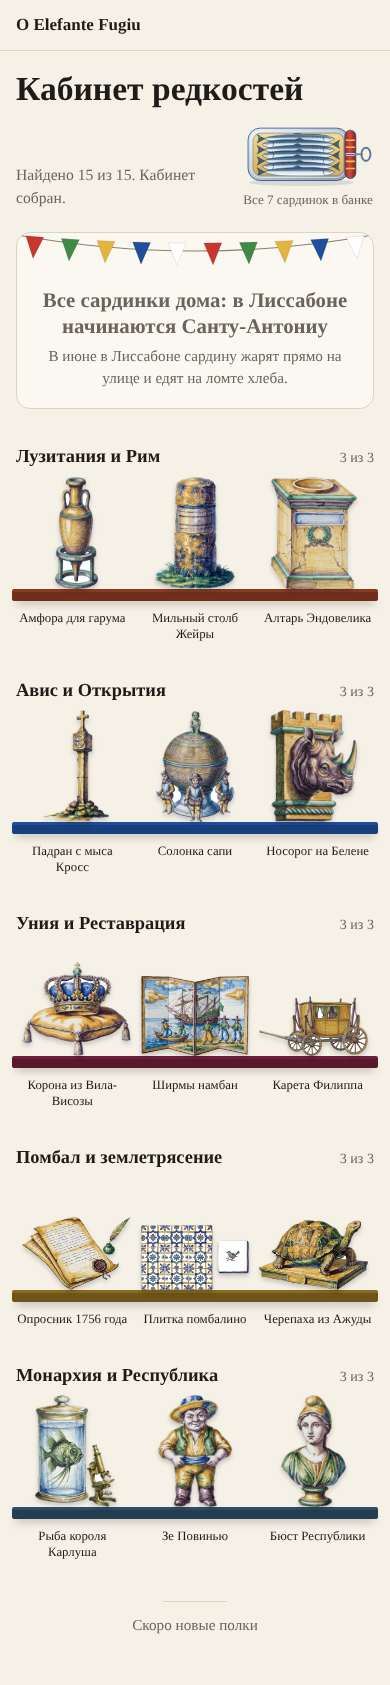
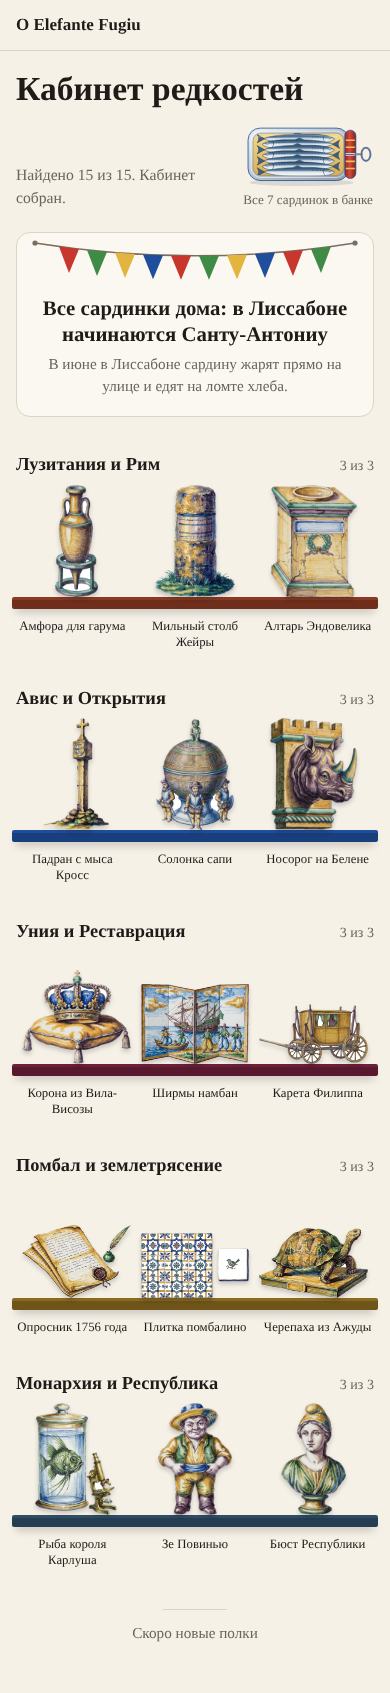
Cabinet: bunting as in mockup v4, found line beside the tin and lead under the head, shelf pictures step in qa workflows

diff --git a/docs/drafts/cabinet-mockup-v4/index.html b/docs/drafts/cabinet-mockup-v4/index.html
@@ -17,9 +17,9 @@ h1{font-family:var(--display);font-size:2.1rem;line-height:1.1;margin:0;grid-col
 .tin{display:flex;flex-direction:column;align-items:center;gap:2px;background:none;border:0;padding:0;font:inherit;color:var(--muted);font-size:.82rem}
 .tin svg{width:132px;height:auto}
 /* festa */
-.festa{position:relative;margin:22px 0 6px;padding:54px 18px 18px;border-radius:14px;background:var(--paper);border:1px solid var(--line);text-align:center;overflow:hidden}
+.festa{position:relative;margin:22px 0 6px;padding:62px 18px 18px;border-radius:14px;background:var(--paper);border:1px solid var(--line);text-align:center;overflow:hidden}
 .festa svg{position:absolute;left:0;top:0;width:100%;height:64px}
-.festa .t{font-family:var(--display);font-size:1.3rem;line-height:1.25;margin:0 0 6px;font-weight:700}
+.festa .t{margin-top:4px;color:var(--fg);font-family:var(--display);font-size:1.3rem;line-height:1.25;margin:0 auto 6px;font-weight:700}
 .festa p{margin:0 auto;color:var(--muted);font-size:.95rem;max-width:40ch}
 /* shelves */
 .shelf{margin-top:34px}
@@ -123,14 +123,18 @@ document.getElementById('shelves').innerHTML=h;
 document.getElementById('sum').textContent=DONE?'Найдено 15 из 15. Кабинет собран.':'Найдено '+n+' из 15. Редкости спрятаны в текстах историй.';
 drawTin(DONE?7:3);
 if(DONE){
- const cols=['#C8372D','#3F8A45','#E3B53F','#1F4E9C','#FFFFFF'];
- function bunting(W,H,y0,sag,cnt,off){let s='<path d="M0 '+y0+' Q'+W/2+' '+(y0+2*sag)+' '+W+' '+y0+'" fill="none" stroke="#8A7F70" stroke-width="1.2"/>';
-  for(let i=0;i<cnt;i++){const t=(i+.5+off)/cnt;if(t>1)continue;const x=W*t;const y=y0+2*sag*t*(1-t);const dy=2*sag*(1-2*t)/W;const a=Math.atan(dy)*180/Math.PI;
-   const c=cols[(i+(off?2:0))%cols.length];s+='<g transform="translate('+x+' '+y+') rotate('+a+')"><path d="M-9 0 H9 L0 22 Z" fill="'+c+'" stroke="rgba(0,0,0,.15)" stroke-width=".6"/></g>';}
+ const cols=['#C8372D','#3F8A45','#E3B53F','#1F4E9C'];
+ function bunting(W,H){const x0=18,x1=W-18,y0=10,L=x1-x0,sag=Math.min(24,L*0.04);
+  const Y=x=>{const t=(x-x0)/L;return y0+4*sag*t*(1-t);};
+  const fw=20,gap=8,fh=24,n=Math.floor((L-24+gap)/(fw+gap)),start=x0+(L-(n*fw+(n-1)*gap))/2;
+  let s='<path d="M'+x0+' '+y0+' Q'+(x0+L/2)+' '+(y0+2*sag)+' '+x1+' '+y0+'" fill="none" stroke="#7A6E60" stroke-width="1.4"/>';
+  s+='<circle cx="'+x0+'" cy="'+y0+'" r="2.6" fill="#7A6E60"/><circle cx="'+x1+'" cy="'+y0+'" r="2.6" fill="#7A6E60"/>';
+  for(let i=0;i<n;i++){const xl=start+i*(fw+gap),xr=xl+fw,xm=xl+fw/2,yl=Y(xl),yr=Y(xr);
+   s+='<path d="M'+xl.toFixed(1)+' '+yl.toFixed(1)+' L'+xr.toFixed(1)+' '+yr.toFixed(1)+' L'+xm.toFixed(1)+' '+(Math.max(yl,yr)+fh).toFixed(1)+' Z" fill="'+cols[i%cols.length]+'"/>';}
   return s;}
  document.getElementById('festa').innerHTML='<div class="festa"><svg></svg><p class="t">Все сардинки дома: в Лиссабоне начинаются Санту-Антониу</p><p>В июне в Лиссабоне сардину жарят прямо на улице и едят на ломте хлеба.</p></div>';
  const fe=document.querySelector('.festa'),sv=fe.querySelector('svg');const W=fe.clientWidth,Hh=sv.clientHeight;sv.setAttribute('viewBox','0 0 '+W+' '+Hh);
- sv.innerHTML=bunting(W,Hh,2,Math.min(16,Hh/4),Math.round(W/34),0);
+ sv.innerHTML=bunting(W,Hh);
 }
 if(P.has('pop')){const b=document.querySelector('[data-id="k06-rinoceronte"]');const r=b.getBoundingClientRect();const d=document.createElement('div');d.className='pop';d.style.top=(r.bottom+window.scrollY+40)+'px';d.style.left=Math.max(12,Math.min(r.left-150,innerWidth-302))+'px';d.innerHTML='<b>Носорог на Белене</b>Каменная голова носорога под башенкой: портрет того самого зверя, которого везли папе в 1515 году.<br><a href="#">Открыть историю →</a>';document.body.appendChild(d);}
 </script></body></html>

diff --git a/src/lib/cabinet-art.ts b/src/lib/cabinet-art.ts
@@ -56,24 +56,41 @@ export function tinSvg(caught: number, uid: string): string {
   );
 }
 
-/** The step of the flags on the cord, px. */
-export const BUNTING_STEP = 34;
+/** The cord is fixed at two points this far from the corners of the card, px. */
+const BUNTING_INSET = 18;
+const BUNTING_TOP = 10;
+const BUNTING_SAG = 24;
+const BUNTING_FLAG = { width: 20, height: 24, gap: 8 };
+/** Four colours, no white. */
+const BUNTING_COLOURS = [1, 2, 3, 4];
 
 /**
- * The bunting of the finished cabinet: the cord sags a little between the two edges of a block `width` px wide, and a flag hangs at every step, its point down, turned to the tangent of the cord.
- * Five colours (white with a thin outline). The width is the real width of the block, so nothing is stretched.
+ * The bunting of the finished cabinet (the same drawing as docs/drafts/cabinet-mockup-v4): the cord hangs from two points 18 px inside the corners of a card `width` px wide and sags about 24 px;
+ * flags 20 x 24 with an 8 px gap, the top corners of every flag lie on the cord, the point is straight down. The width is the real width of the card, so nothing is stretched.
  */
-export function buntingSvg(width: number, height: number): string {
-  const y0 = 2;
-  const sag = Math.min(16, height / 4);
-  const count = Math.max(1, Math.round(width / BUNTING_STEP));
-  let flags = '';
+export function buntingSvg(width: number): string {
+  const x0 = BUNTING_INSET;
+  const x1 = width - BUNTING_INSET;
+  const y0 = BUNTING_TOP;
+  const length = x1 - x0;
+  const sag = Math.min(BUNTING_SAG, length * 0.04);
+  const cordY = (x: number): number => {
+    const t = (x - x0) / length;
+    return y0 + 4 * sag * t * (1 - t);
+  };
+  const { width: fw, height: fh, gap } = BUNTING_FLAG;
+  const count = Math.max(0, Math.floor((length - 24 + gap) / (fw + gap)));
+  const start = x0 + (length - (count * fw + (count - 1) * gap)) / 2;
+  const f = (n: number): string => n.toFixed(1);
+  let out = `<path d="M${x0} ${y0} Q${f(x0 + length / 2)} ${f(y0 + 2 * sag)} ${f(x1)} ${y0}" fill="none" stroke="var(--color-muted)" stroke-width="1.4"/>`;
+  out += `<circle cx="${x0}" cy="${y0}" r="2.6" fill="var(--color-muted)"/><circle cx="${f(x1)}" cy="${y0}" r="2.6" fill="var(--color-muted)"/>`;
   for (let i = 0; i < count; i++) {
-    const t = (i + 0.5) / count;
-    const x = width * t;
-    const y = y0 + 2 * sag * t * (1 - t);
-    const angle = (Math.atan((2 * sag * (1 - 2 * t)) / width) * 180) / Math.PI;
-    flags += `<g transform="translate(${x.toFixed(1)} ${y.toFixed(1)}) rotate(${angle.toFixed(1)})"><path d="M-9 0 H9 L0 22 Z" fill="var(--cab-flag-${(i % 5) + 1})" stroke="var(--cab-flag-line)" stroke-width=".6"/></g>`;
+    const xl = start + i * (fw + gap);
+    const xr = xl + fw;
+    const yl = cordY(xl);
+    const yr = cordY(xr);
+    const colour = BUNTING_COLOURS[i % BUNTING_COLOURS.length];
+    out += `<path d="M${f(xl)} ${f(yl)} L${f(xr)} ${f(yr)} L${f(xl + fw / 2)} ${f(Math.max(yl, yr) + fh)} Z" fill="var(--cab-flag-${colour})"/>`;
   }
-  return `<path d="M0 ${y0} Q${(width / 2).toFixed(1)} ${y0 + 2 * sag} ${width.toFixed(1)} ${y0}" fill="none" stroke="var(--color-muted)" stroke-width="1.2"/>${flags}`;
+  return out;
 }

diff --git a/src/styles/tokens.css b/src/styles/tokens.css
@@ -48,11 +48,9 @@
   --cab-fish-fin: light-dark(#3e5f80, #4a6d90);
   --cab-fish-eye: light-dark(#ffffff, #ffffff);
   --cab-flag-1: light-dark(#c8372d, #d9564b);
-  --cab-flag-2: light-dark(#4e8f45, #6aaa5f);
-  --cab-flag-3: light-dark(#e9c46a, #e0b24a);
+  --cab-flag-2: light-dark(#3f8a45, #6aaa5f);
+  --cab-flag-3: light-dark(#e3b53f, #e0b24a);
   --cab-flag-4: light-dark(#1f4e9c, #5a88d8);
-  --cab-flag-5: light-dark(#ffffff, #efe8d8);
-  --cab-flag-line: light-dark(rgb(0 0 0 / 0.15), rgb(255 255 255 / 0.25));
 
   /* The cabinet of rarities: sizes of the shelf (the zone of the objects is 112 px high, 160 px from 768 px; the shelf is 760 px at most), of the head and of the card of the holiday. */
   --cab-obj-h: 7rem;
@@ -76,7 +74,9 @@
   --cab-tin-size: 8.25rem;
   --cab-tin-size-wide: 13.125rem;
   --cab-swim-far: 14rem;
-  --cab-lead: 34ch;
+  --cab-lead: 60ch;
+  --cab-party-top-wide: 4.75rem;
+  --cab-party-gap: 0.375rem;
   --cab-line: 40ch;
   --cab-card-radius: 0.875rem;
   --cab-party-top: 4rem;
@@ -621,11 +621,9 @@
     --cab-fish-fin: #3e5f80;
     --cab-fish-eye: #ffffff;
     --cab-flag-1: #c8372d;
-    --cab-flag-2: #4e8f45;
-    --cab-flag-3: #e9c46a;
+    --cab-flag-2: #3f8a45;
+    --cab-flag-3: #e3b53f;
     --cab-flag-4: #1f4e9c;
-    --cab-flag-5: #ffffff;
-    --cab-flag-line: rgb(0 0 0 / 0.15);
     --cab-pop-shadow: 0 0.375rem 1.125rem rgb(31 27 22 / 0.18);
     --color-heavy-border: #7a2e0e;
     --color-heavy-bg: #fdeee6;

diff --git a/src/scripts/cabinet.ts b/src/scripts/cabinet.ts
@@ -272,7 +272,7 @@ function wirePage(root: HTMLElement, data: Payload): void {
     const w = party.clientWidth;
     const h = bunting.clientHeight;
     bunting.setAttribute('viewBox', `0 0 ${w} ${h}`);
-    bunting.innerHTML = buntingSvg(w, h);
+    bunting.innerHTML = buntingSvg(w);
   };
   if (party) new ResizeObserver(hang).observe(party);
   if (note && preview) note.hidden = false;
@@ -307,7 +307,7 @@ function wirePage(root: HTMLElement, data: Payload): void {
       const counter = shelf.querySelector<HTMLElement>('[data-shelf-count]');
       if (counter) counter.textContent = fill(s.shelf_count ?? '', { n: mine.filter((tile) => tile.hasAttribute('data-found')).length, m: mine.length });
     }
-    if (found) found.textContent = fill(have === total && total > 0 ? (s.complete ?? '') : (s.found ?? ''), { n: have, m: total });
+    if (found) found.textContent = fill(s.found ?? '', { n: have, m: total });
     if (empty) empty.hidden = total > 0;
     const caught = store.sardines.length;
     if (tinArt) tinArt.innerHTML = tinSvg(caught, 'tin');

diff --git a/src/styles/cabinet.css b/src/styles/cabinet.css
@@ -226,6 +226,11 @@ button.cw:focus-visible {
 .cabinet__head p {
   margin: 0;
   color: var(--color-muted);
+}
+
+.cabinet__lead {
+  margin: var(--space-2) 0 0;
+  color: var(--color-muted);
   max-inline-size: var(--cab-lead);
 }
 
@@ -466,7 +471,7 @@ html[data-js] .cabinet__no-js {
 }
 
 .cabinet__party-title {
-  margin-block-end: var(--space-2);
+  margin-block-end: var(--cab-party-gap);
   font-family: var(--font-heading);
   font-size: var(--cab-party-title);
   font-weight: 700;
@@ -476,6 +481,16 @@ html[data-js] .cabinet__no-js {
 
 .cabinet__party p.cabinet__party-title {
   color: var(--color-text);
+}
+
+@media (min-width: 48rem) {
+  .cabinet__party {
+    padding-block-start: var(--cab-party-top-wide);
+  }
+
+  .cabinet__party svg {
+    block-size: var(--cab-party-top-wide);
+  }
 }
 
 /* ---- The story of a rarity ---- */

diff --git a/docs/STATE.md b/docs/STATE.md
@@ -6,6 +6,7 @@
 
 - 20.11.2026: подвал переделан: три колонки «Проект / Участвовать / Следить» (массив групп в `SiteFooter.astro`), тихая строка лицензия · cookie под линией; QA: раздел 7 в `scripts/qa/nav.mjs` (три группы, Telegram только ru, капс только в заголовках, нет переполнения на 320/360). Не закоммичено, ждёт ок по скриншотам.
 - 19.11.2026: кабинет редкостей (ветка `feat/cabinet`, не слит; пока `CABINET_OPENS = null`, на сайте невидим): `src/content/cabinet.yaml` (3 редкости на готовых историях: корона, ширмы намбан, Зе Повинью), выключатель в `src/lib/cabinet-config.mjs`, предпросмотр `?kabinet=preview`, страница `/ru/kabinet/`, слова-тайники, 7 сардинок, `check:cabinet`, QA `cabinet`; детали в spec «Кабинет редкостей». Не сделано: 12 историй-редкостей и миниатюры (картинки редкостей и карточки хаба пока заглушки); `lang:pending` на ключи `cabinet.*`; фразы-тайники в хозяевах 24 и 31 другие, чем в черновике (в тексте нет «корону» и «Англии»: «провозгласили» и «Британия»); страница праздника `santos-populares` выключена, ссылка в праздничном блоке появится вместе с ней. Ждёт qa-full на ветке.
+- 20.11.2026: кабинет: гирлянда праздничной карточки как в макете v4 (`buntingSvg(width)`, 4 цвета, провис 24px), шапка: рядом с банкой только «Найдено: N из M», фраза-подсказка отдельной строкой под шапкой (до 60ch); шаги `make-cabinet-shelf.mjs` добавлены в `qa-smoke.yml` и `qa-full.yml` (deploy идёт через `npm run build`).
 - 19.11.2026: в подвале ссылка «Подписка на почту / Email updates / Subscrever por email» (`footer.follow`) ведёт на блок на «О проекте» (`#follow`, id только у негейтированного блока).
 - 19.11.2026: подписка Kit без ухода со страницы: `src/scripts/follow.ts` шлёт форму через fetch (FormData, `Accept: application/json`), при успехе показывает `follow.done` вместо формы, при ошибке сети/CORS — обычный `form.submit()`. Реальный ответ Kit по CORS не проверен (в тесте подменён).
 
